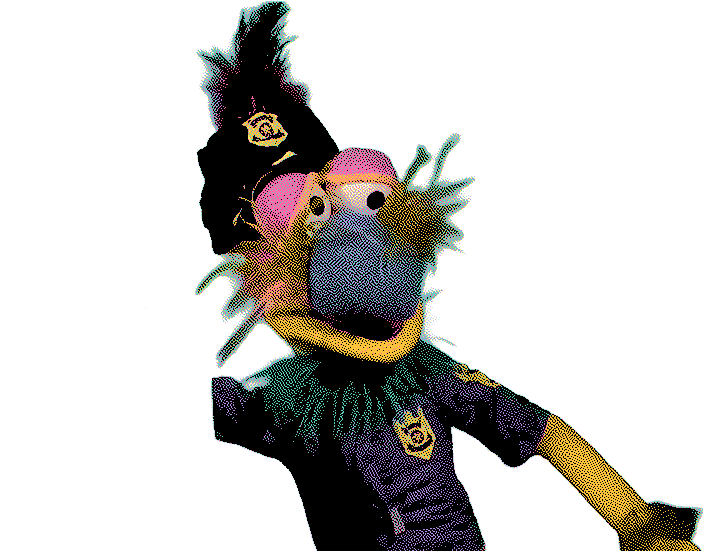
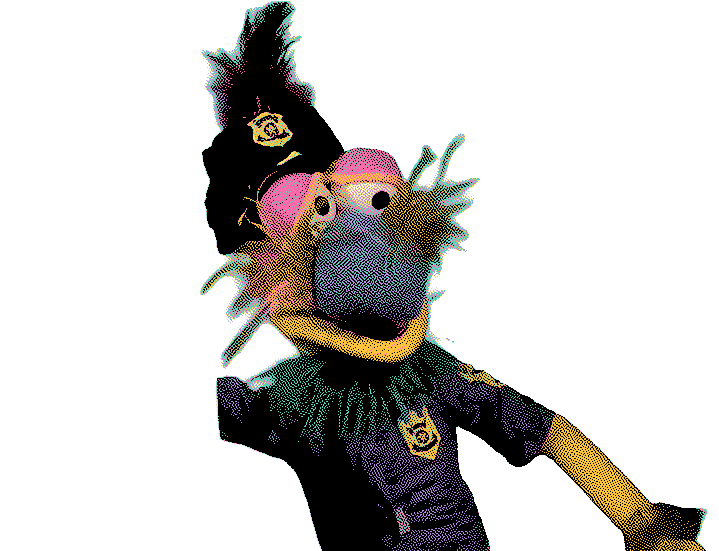
Refresh Cam artwork and move story JS lint to ESLint
Repaint the phase 0-3 poses, add the phase-2 neutral GIF, and seat the
speech-tail pointer inside the card on short layouts.

Stop type-checking the unannotated story script: jsconfig sets
checkJs false and .pi-lens.json drops the tsserver ignored-code
override, leaving eslint.config.mjs as the JS checker. Link Twine,
Tweego and SugarCube in the README.

diff --git a/src/css/stage.css b/src/css/stage.css
@@ -253,13 +253,21 @@ body[data-layout="2"] {
   --slot-menu-display: flex;
 
   /* tail — the edge pointer aiming left, high on the paper's left edge to
-     face Cam */
+     face Cam. The seat is the authored fraction of the slot's height, floored
+     so the mouth stays wholly below the card's corner slice. The pointer is
+     drawn at the paper's fixed pixel scale, so it does not shrink with the
+     stage while the fraction does: on a short card the fraction alone seats
+     the mouth past the card's top edge. The quarter turn puts --tail-w along
+     the edge, so half of it is the mouth's reach above and below the seat. */
   --tail-art: var(--speech-tail-iso);
   --tail-w: var(--tail-point);
   --tail-h: var(--tail-size);
   --tail-rotate: 90deg;
   --tail-x: calc(var(--speech-line) - var(--tail-point) / 2);
-  --tail-y: 14%;
+  --tail-y: max(
+    calc(var(--speech-width) + var(--tail-w) / 2),
+    14%
+  );
 }
 
 body[data-layout="3"] {
@@ -292,13 +300,20 @@ body[data-layout="3"] {
   /* menu — hidden in this layout */
   --slot-menu-display: none;
 
-  /* tail — the edge pointer aiming left, a touch below the paper's middle */
+  /* tail — the edge pointer aiming left, a touch below the paper's middle.
+     The fraction is held between the two distances that keep the whole mouth,
+     which is a fixed number of pixels, on the paper's left edge however short
+     the card gets. See the seat note in Layout 2. */
   --tail-art: var(--speech-tail-iso);
   --tail-w: var(--tail-point);
   --tail-h: var(--tail-size);
   --tail-rotate: 90deg;
   --tail-x: calc(var(--speech-line) - var(--tail-point) / 2);
-  --tail-y: 52%;
+  --tail-y: clamp(
+    calc(var(--tail-w) / 2 + var(--tail-seat)),
+    52%,
+    calc(100% - var(--tail-w) / 2 - var(--tail-seat))
+  );
 }
 
 body[data-layout="4"] {

diff --git a/README.md b/README.md
@@ -2,7 +2,9 @@
 
 ## Build
 
-Tweego on `PATH`, and the SugarCube 2 story format in `.storyformats/`. Copy
+[Twine](https://twinery.org/) stories compile with [Tweego](https://github.com/tmedwards/tweego)
+on `PATH`, and use the [SugarCube 2](https://www.motoslave.net/sugarcube/2/) story
+format in `.storyformats/`. Copy
 the assets beside the story, then compile `src/`:
 
 ```sh
